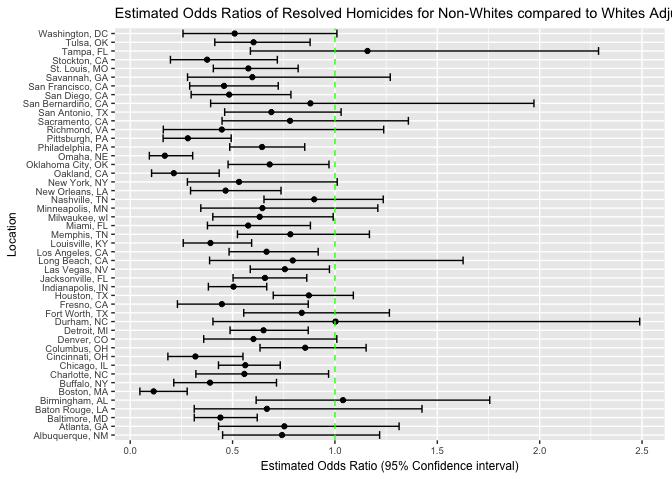
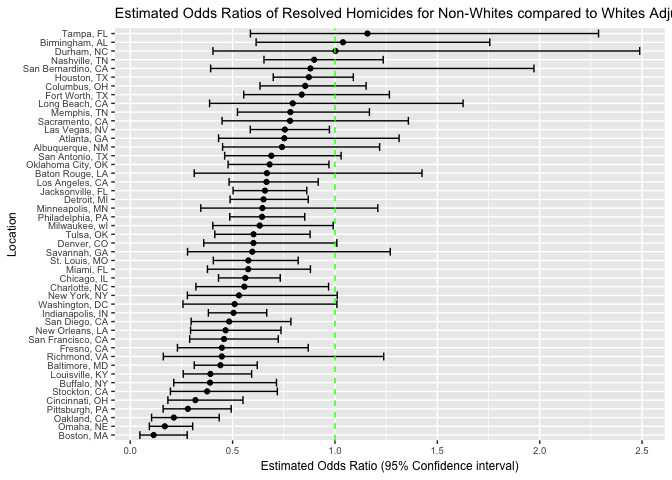
Tidying birthweight data. Building models.

diff --git a/p8105_hw6_dk2759.md b/p8105_hw6_dk2759.md
@@ -169,27 +169,10 @@ Create a plot that shows the estimated ORs and CIs for each city.
 Organize cities according to estimated OR, and comment on the plot.
 
 ``` r
-fit_logr_cities %>% 
-  arrange(desc(OR)) %>% 
+fit_logr_cities = fit_logr_cities %>% 
+  arrange(-desc(OR)) %>% 
   mutate(city_state = fct_inorder(city_state))
-```
-
-    ## # A tibble: 47 x 4
-    ##    city_state            OR lower_95ci upper_95ci
-    ##    <fct>              <dbl>      <dbl>      <dbl>
-    ##  1 Tampa, FL          1.16       0.587       2.29
-    ##  2 Birmingham, AL     1.04       0.615       1.76
-    ##  3 Durham, NC         1.00       0.404       2.49
-    ##  4 Nashville, TN      0.899      0.653       1.24
-    ##  5 San Bernardino, CA 0.880      0.393       1.97
-    ##  6 Houston, TX        0.873      0.699       1.09
-    ##  7 Columbus, OH       0.855      0.634       1.15
-    ##  8 Fort Worth, TX     0.838      0.555       1.27
-    ##  9 Long Beach, CA     0.794      0.388       1.63
-    ## 10 Memphis, TN        0.782      0.524       1.17
-    ## # ... with 37 more rows
-
-``` r
+  
 ggplot(fit_logr_cities, aes(x = city_state, y = OR )) + 
   geom_point() + 
   geom_errorbar(aes(ymin = lower_95ci, ymax = upper_95ci)) + 
@@ -205,8 +188,12 @@ ggplot(fit_logr_cities, aes(x = city_state, y = OR )) +
 
 ![](p8105_hw6_dk2759_files/figure-gfm/plot_cities-1.png)<!-- -->
 
-Problem 2 In this probelm, you will analyze data gathered to understand
-the effects of several variables on a child’s birthweight. This dataset,
+The graph
+
+### Problem 2
+
+In this probelm, you will analyze data gathered to understand the
+effects of several variables on a child’s birthweight. This dataset,
 available here, consists of roughly 4000 children and includes the
 following variables:
 
